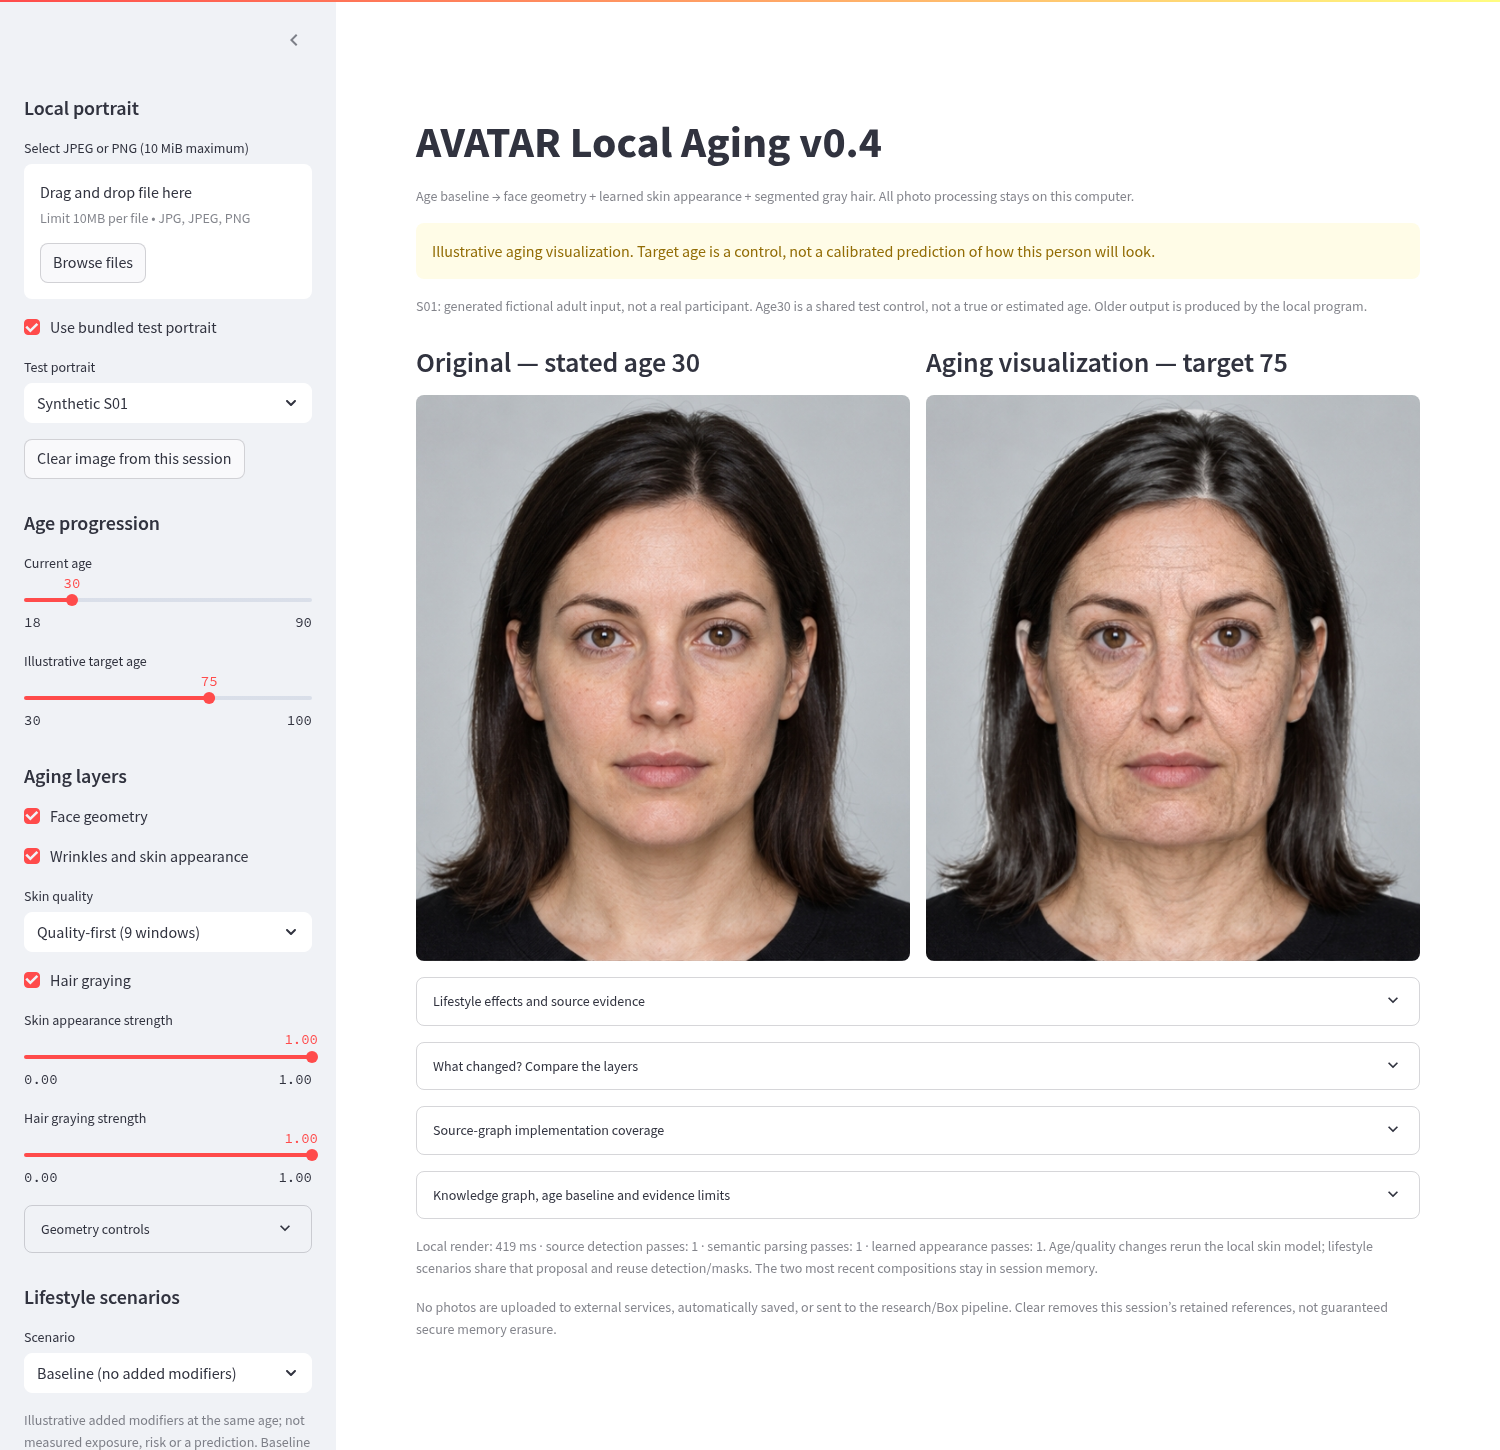
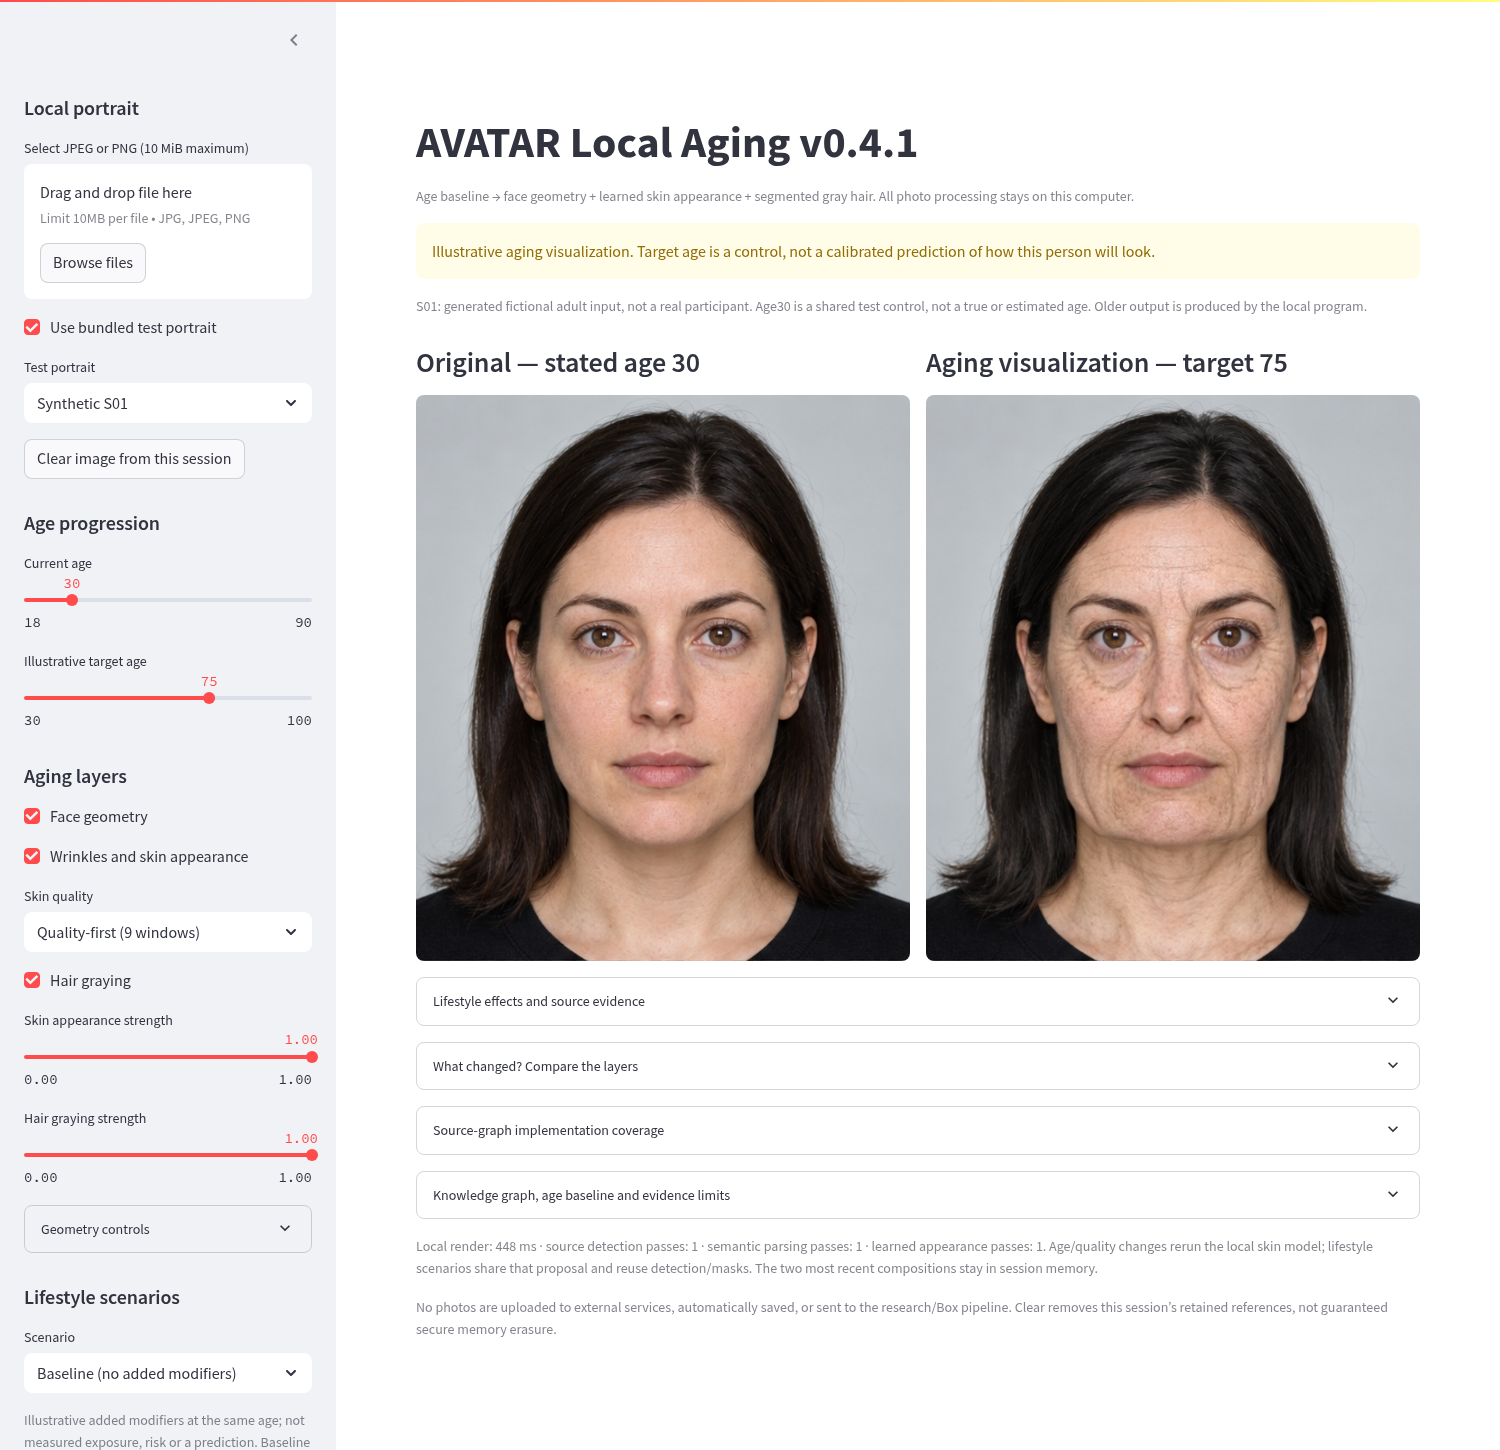
Fix hair halo and fringe whitening with conservative boundary protection

diff --git a/experiments/geometry_renderer/hair_layers.py b/experiments/geometry_renderer/hair_layers.py
@@ -180,11 +180,11 @@ def conservative_hair_mask(image: np.ndarray, landmarks: np.ndarray) -> np.ndarr
 
 
 def gray_hair(image: np.ndarray, mask: np.ndarray, strength: float, *, seed: int = 2026) -> tuple[np.ndarray,dict]:
-    """Author silver/gray strand appearance while retaining source hair texture.
+    """Conservative tonal graying while retaining source hair texture.
 
     Strength is an illustration control, not a clinical fraction of gray hair.
-    Chroma moves toward neutral silver with deterministic elongated variation;
-    source luminance/detail remain visible rather than painting a white blob.
+    Chroma moves toward neutral with bounded luminance lift and no added noise.
+    Bright outliers and soft boundary pixels are protected from whitening.
     Pixels outside the supplied confident mask are bit-for-bit protected.
     """
     _validate_rgb(image)
@@ -201,45 +201,33 @@ def gray_hair(image: np.ndarray, mask: np.ndarray, strength: float, *, seed: int
         return image.copy(),metrics
     rgb=image.astype(np.float32)
     lum=rgb@np.array([.2126,.7152,.0722],np.float32)
-    base=cv2.GaussianBlur(lum,(0,0),1.3)
-    detail=lum-base
-    # Estimate local strand direction from the source structure tensor. Noise
-    # follows actual hair flow instead of painting a single vertical gray veil.
-    gx=cv2.Sobel(lum,cv2.CV_32F,1,0,ksize=3)
-    gy=cv2.Sobel(lum,cv2.CV_32F,0,1,ksize=3)
-    jxx=cv2.GaussianBlur(gx*gx,(0,0),1.8)
-    jyy=cv2.GaussianBlur(gy*gy,(0,0),1.8)
-    jxy=cv2.GaussianBlur(gx*gy,(0,0),1.8)
-    angle=.5*np.arctan2(2*jxy,jxx-jyy)
-    tx,ty=-np.sin(angle),np.cos(angle)
-    y,x=np.indices(mask.shape,dtype=np.float32)
-    noise=np.random.default_rng(seed).standard_normal(mask.shape).astype(np.float32)
-    flowing=np.zeros_like(noise)
-    for offset in (-4.,-2.,0.,2.,4.):
-        flowing+=cv2.remap(noise,x+offset*tx,y+offset*ty,cv2.INTER_LINEAR,borderMode=cv2.BORDER_REFLECT_101)
-    flowing=cv2.GaussianBlur(flowing/5,(0,0),3.)
-    # Anchor silver locks to existing illuminated strands. Random selection on
-    # its own produces a mottled wig; use only weak, smooth seed variation.
-    lo,hi=np.percentile(base[support],[15,85])
-    highlight=np.clip((base-float(lo))/max(float(hi-lo),8.),0,1)
-    variation=flowing/max(float(np.std(flowing[support])),1e-6)
-    selection=np.clip((highlight-.18)*1.35+variation*.04,0,1)*float(strength)
-    # Textureless hair has no observable locks: neutralize conservatively
-    # rather than silently skipping it or inventing random high contrast.
-    if float(hi-lo)<2.:
-        selection=np.full_like(mask,.8*float(strength))
+    # Never select silver patches from source highlights: bright background or
+    # forehead leakage otherwise becomes a white rim/strip through the fringe.
+    distance=cv2.distanceTransform(support.astype(np.uint8),cv2.DIST_L2,3)
+    feather=max(3.,min(10.,min(image.shape[:2])*.012))
+    core=support & (distance>feather+2) & (mask>.5)
+    if core.sum()<32:
+        metrics.update(mode='conservative_tonal_gray',reason='no_reliable_hair_interior')
+        return image.copy(),metrics
+    low,high=np.percentile(lum[core],[15,50])
+    cutoff=float(high)+max(18.,float(high-low)*2.)
+    # Bright outliers relative to the hair interior are protected, including
+    # skin/wall pixels confidently misclassified by the semantic parser.
+    brightness_gate=np.clip((cutoff+18-lum)/18,0,1)
     confidence=np.clip((mask-.5)/.10,0,1)
-    edge=cv2.distanceTransform(support.astype(np.uint8),cv2.DIST_L2,3)
-    edge=np.clip(edge/2.,0,1)
-    alpha=confidence*selection*edge*.75
-    silver=np.clip(30+1.45*base+detail,0,235)
+    edge=np.clip((distance-1)/feather,0,1)
+    alpha=confidence*edge*brightness_gate*.72*float(strength)
+    # Preserve source luminance, shadows and strands. Maximum target lift12
+    # levels (and effective lift<9); no white paint, noise or new strand texture.
+    silver=np.clip(lum+np.minimum(lum*.12,12),0,255)
     neutral=np.repeat(silver[...,None],3,axis=2)
     result=np.rint(np.clip(rgb*(1-alpha[...,None])+neutral*alpha[...,None],0,255)).astype(np.uint8)
     result[~support]=image[~support]
-    metrics.update(mode='source_illuminated_silver_locks',
+    metrics.update(mode='conservative_tonal_gray',
         retained_source_fraction=float(np.mean(np.all(result[support]==image[support],axis=1))),
-        selection_mean=float(selection[support].mean()),
-        selection_note='Authored strand-selection density, not measured gray-hair percentage.')
+        protected_bright_pixels=int(np.sum(support & (brightness_gate==0))),
+        feather_pixels=float(feather),max_luminance_lift=9.,
+        selection_note='Conservative source-tone neutralization; not follicle synthesis or a measured gray-hair percentage.')
     metrics.update(applied=bool(np.any(result!=image)),
         mean_change=float(np.abs(result.astype(np.float32)-rgb)[support].mean()),
         mean_luminance_before=float(lum[support].mean()),

diff --git a/experiments/geometry_renderer/tests/test_hair_layers.py b/experiments/geometry_renderer/tests/test_hair_layers.py
@@ -49,7 +49,7 @@ def test_deterministic_strands_reduce_chroma_and_preserve_contrast(synthetic_hai
     b,_=gray_hair(image,mask,1,seed=3)
     c,_=gray_hair(image,mask,1,seed=4)
     np.testing.assert_array_equal(a,b)
-    assert np.any(a[mask>0]!=c[mask>0])
+    np.testing.assert_array_equal(a,c)  # seed kept for compatibility; no painted random strands
     source=image[mask>0].astype(float)
     changed=a[mask>0].astype(float)
     # Mixed dark/silver locks should lose chroma without bleaching all hair.
@@ -68,7 +68,8 @@ def test_deterministic_strands_reduce_chroma_and_preserve_contrast(synthetic_hai
     new_detail=new_full-cv2.GaussianBlur(new_full,(0,0),2)
     assert np.corrcoef(old_detail[mask>0],new_detail[mask>0])[0,1]>.75
     retained=np.all(a[mask>0]==image[mask>0],axis=1).mean()
-    assert .1<retained<.5  # dark locks must actually remain, not a gray veil
+    assert 0<retained<.5  # feathered boundary is protected
+    assert np.max(new_lum-old_lum)<9.5  # no white-paint luminance lift
     assert new_lum.max()<245
 
 @pytest.mark.parametrize('strength',[-.1,1.1,float('nan')])
@@ -140,3 +141,25 @@ def test_real_verified_offline_parser_on_licensed_fixture(licensed_image,license
     changed,metrics=gray_hair(licensed_image,regions['hair'],1)
     assert metrics['applied'] and metrics['mean_change']>10
     np.testing.assert_array_equal(changed[regions['hair']<=.5],licensed_image[regions['hair']<=.5])
+
+
+def test_warm_background_halo_and_skin_leak_are_not_whitened():
+    # Deliberately wrong high-confidence parser output: includes a bright wall
+    # ring and a forehead strip. Use authored pixels, never the user's portrait.
+    image=np.full((160,180,3),[190,159,113],np.uint8)
+    image[30:125,30:150]=[28,22,17]
+    image[108:125,45:135]=[176,128,91]  # forehead under fringe
+    mask=np.zeros((160,180),np.float32);mask[20:135,20:160]=.99
+    out,metrics=gray_hair(image,mask,1)
+    bright=(image[...,0]>150)
+    np.testing.assert_array_equal(out[bright],image[bright])
+    assert metrics['protected_bright_pixels']>0
+    assert np.any(out[50:90,50:120]!=image[50:90,50:120])
+
+
+def test_thin_flyaway_mask_is_left_unchanged_without_a_reliable_interior():
+    image=np.full((90,90,3),[30,25,20],np.uint8)
+    mask=np.zeros((90,90),np.float32);mask[10:70,40:42]=1
+    out,metrics=gray_hair(image,mask,1)
+    np.testing.assert_array_equal(out,image)
+    assert not metrics['applied']

diff --git a/experiments/geometry_renderer/app.py b/experiments/geometry_renderer/app.py
@@ -15,8 +15,8 @@ from experiments.geometry_renderer.comparison import crop_view,difference_view,h
 from experiments.geometry_renderer.session import DemoSession
 from experiments.geometry_renderer.lifestyle import PRESETS
 
-st.set_page_config(page_title='AVATAR Local Aging v0.4',layout='wide')
-st.title('AVATAR Local Aging v0.4')
+st.set_page_config(page_title='AVATAR Local Aging v0.4.1',layout='wide')
+st.title('AVATAR Local Aging v0.4.1')
 st.caption('Age baseline → face geometry + learned skin appearance + segmented gray hair. All photo processing stays on this computer.')
 st.warning('Illustrative aging visualization. Target age is a control, not a calibrated prediction of how this person will look.')
 

diff --git a/experiments/geometry_renderer/README.md b/experiments/geometry_renderer/README.md
@@ -1,4 +1,4 @@
-# AVATAR mesh-first local aging v0.4
+# AVATAR mesh-first local aging v0.4.1
 
 Local CPU prototype: repository knowledge graph + explicit age baseline, fixed-border
 mesh geometry, optional age-conditioned skin residual, and segmented hair graying.
@@ -103,7 +103,7 @@ The FRAN model is a124MB public ONNX conversion; no GPL FaceStudio code is used.
 
 ![Generated fictional input, original and illustrative local aging](screenshots/local-aging-ui.png)
 
-Latest verification: **156 experiment tests passed**, plus3 existing API tests.
+Latest verification: **158 experiment tests passed**, plus3 existing API tests.
 Browser regression additionally verifies same-age UV/smoking comparison with one
 shared model proposal, reset/clear and zero external requests or browser errors.
 Historical detail-quality CPU evidence: the mirrored-parser/detail run took **8.878s** for the
@@ -183,3 +183,17 @@ compare UV, smoking, alcohol, exploratory stress, combined or custom modifiers.
 Age inference stays shared; diet and lifestyle-induced hair changes are not
 inferred. The four-fictional-input scenario batch and refreshed real UI screenshot
 are linked in that document. No new runtime models or dependencies.
+
+## v0.4.1 hair boundary hotfix
+
+Replaces highlight-selected silver patches with conservative tonal neutralization,
+bounded luminance lift and soft boundary protection. Bright wall/forehead outliers
+relative to the hair interior are protected; thin/uncertain regions with no
+reliable interior are left unchanged. No random strands or crease paths are added.
+Gray appearance is deliberately subtler; incorrect semantic masks can still cause
+errors. This does not fix remaining facial-skin naturalness limitations.
+
+The warm-background/leaky-mask regression uses authored color blocks, not the
+user's portrait. [Regression and four fictional inputs](validation/naturalness_iterations/hair_hotfix_v041/)
+include the final source digests. Full suite:158 experiment tests plus3 existing
+API tests passed. No new model or dependency.

diff --git a/experiments/geometry_renderer/validation/naturalness_iterations/README.md b/experiments/geometry_renderer/validation/naturalness_iterations/README.md
@@ -1,5 +1,11 @@
 # Naturalness iterations — fictional fixtures only
 
+**v0.4.1 update:** the historical D hair algorithm is superseded by conservative
+tonal gray with bright-outlier and boundary protection. See
+[hotfix comparison](hair_hotfix_v041/contact-sheet.jpg) and
+[deliberately leaky-mask regression](hair_hotfix_v041/warm-boundary-regression.png).
+These diagnostics do not use the user’s uploaded portrait.
+
 Four matched inputs, stated source age30 → illustrative target75, ultra neural
 proposal, default geometry/skin/hair controls and no per-input tuning. These are
 program outputs, not image-generator aging edits. Baseline is `synthetic_v03`.
@@ -9,7 +15,7 @@ program outputs, not image-generator aging edits. Baseline is `synthetic_v03`.
 | strand_hair_A | Rejected | Hard random lock selection produced a speckled gray wig. |
 | balanced_B | Intermediate | Softer source-relative gray, stronger cheek/jaw contour, attenuated fine skin residual. Hair too dark. |
 | balanced_C | Rejected hair variant | Brighter locks still looked mottled when enlarged. |
-| source_locks_D | Current default | Gray anchored to existing illuminated strands; weak smooth random variation. Retains dark locks/shadows, less uniform gray veil. |
+| source_locks_D | v0.4.0 default (superseded) | Gray anchored to existing illuminated strands; weak smooth random variation. Retains dark locks/shadows, less uniform gray veil. |
 
 ![Input / v0.3 / current candidate](source_locks_D/contact-sheet.jpg)
 
